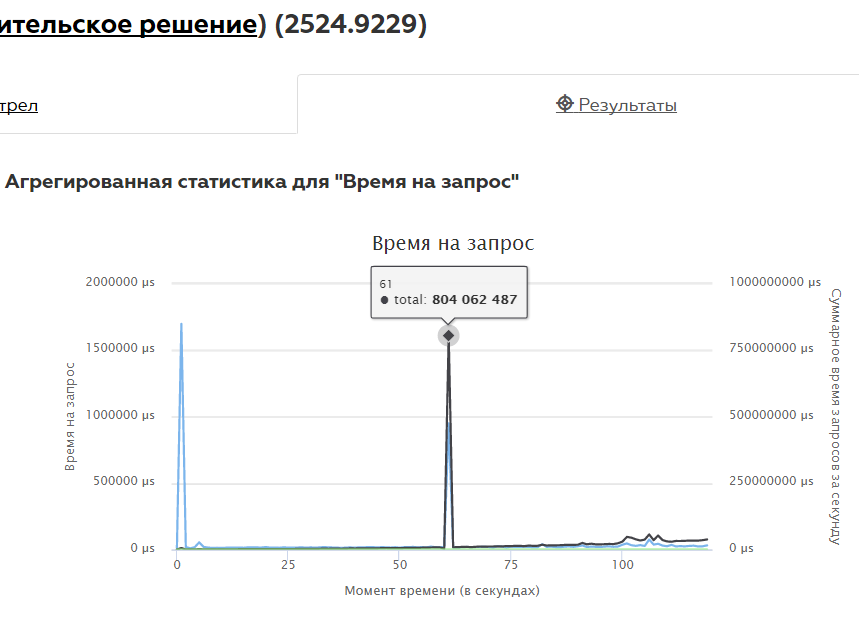
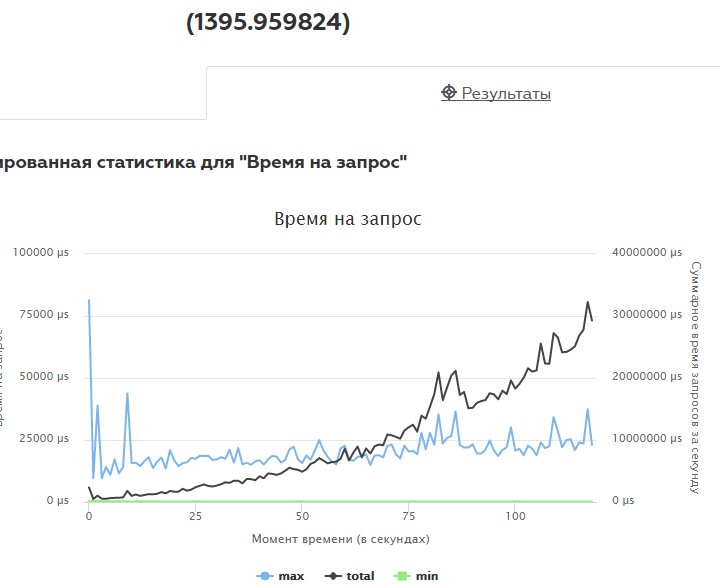
improved

diff --git a/Services/FileDbLoader.cs b/Services/FileDbLoader.cs
@@ -16,17 +16,40 @@ namespace shared.Services
         public List<Visit> visits = null;
     }
 
+    public class TaskFilesData
+    {
+        public List<DataFile> files;
+        public int? currentTime;
+    }
+
     public class FileDbLoader
     {
-        public static List<DataFile> Load(string zipFn)
+        public static TaskFilesData Load(string zipFn)
         {
             using (ZipArchive zip = ZipFile.OpenRead(zipFn))
             {
-                return zip.Entries
-                    .Where(file => file.Name.StartsWith("users") || file.Name.StartsWith("locations") || file.Name.StartsWith("visits"))
-                    .Select(file => JsonSerializers.DeserializeUtf8Stream<DataFile>(file.Open()))
-                    .ToList();
+                return new TaskFilesData {
+                    files = zip.Entries
+                        .Where(file => file.Name.StartsWith("users") || file.Name.StartsWith("locations") || file.Name.StartsWith("visits"))
+                        .Select(file => JsonSerializers.DeserializeUtf8Stream<DataFile>(file.Open()))
+                        .ToList(),
+                    currentTime = GetTimestampFrom(zip.Entries.Where(file => file.Name == "options.txt").SingleOrDefault())
+                    };
             }
         }
+
+        private static int? GetTimestampFrom(ZipArchiveEntry file)
+        {
+            if (file == null) return null;
+            using (var rdr = new StreamReader(file.Open(), Encoding.UTF8))
+            {
+                Console.WriteLine("zip/options found");
+                return rdr.ReadLine().ParseInt();
+            }
+        }
+
+
+
+
     }
 }

diff --git a/Controllers/LocationsController.cs b/Controllers/LocationsController.cs
@@ -11,12 +11,10 @@ using websrv1.Models;
 namespace websrv1.Controllers
 {
     [Route("[controller]")]
-    public class LocationsController : Controller
+    public class LocationsController : ControllerBase
     {
-        IDatabase db;
-        public LocationsController(IDatabase db)
+        public LocationsController(IDatabase db):base(db)
         {
-            this.db = db;
         }
 
         [HttpGet("{id:int}")]
@@ -24,10 +22,6 @@ namespace websrv1.Controllers
         {
             return (object)db.find<Location>(id) ?? NotFound();
         }
-
-
-
-        static    int currentTime = DateTime.Now.ToUnixTimestamp();
 
         [HttpGet("{id:int}/avg")]
         public object GetAvg(uint id,[FromQuery]SearchRequest q)
@@ -89,13 +83,13 @@ namespace websrv1.Controllers
             if (obj == null) return NotFound();
             //if (!ModelState.IsValid) return BadRequest();
             obj.updateFrom(json);
-            return "{}";//empty object
+            return emptyJSONObj;
         }
         [HttpPost("new")]
         public object Insert([FromBody]Location loc)
         {
             if (!loc.Valid) return BadRequest();
-            if (db.insert(loc)) return "{}";
+            if (db.insert(loc)) return emptyJSONObj;
             else return BadRequest();
         }
 

diff --git a/Controllers/UsersController.cs b/Controllers/UsersController.cs
@@ -10,12 +10,10 @@ using websrv1.Models;
 namespace websrv1.Controllers
 {
     [Route("[controller]")]
-    public class UsersController : Controller
+    public class UsersController : ControllerBase
     {
-        IDatabase db;
-        public UsersController(IDatabase db)
+        public UsersController(IDatabase db) : base(db)
         {
-            this.db = db;
         }
 
         [HttpGet("{id:int}")]
@@ -23,9 +21,6 @@ namespace websrv1.Controllers
         {
             return (object)db.find<User>(id) ?? NotFound();
         }
-
-
-        static   int currentTime = DateTime.Now.ToUnixTimestamp();
 
         [HttpGet("{id:int}/visits")]
         public object GetVisits(uint id, [FromQuery]SearchRequest q)
@@ -64,14 +59,14 @@ namespace websrv1.Controllers
             if (obj == null) return NotFound();
             //if (!ModelState.IsValid) return BadRequest();
             obj.updateFrom(json);
-            return "{}";//empty object
+            return emptyJSONObj;
         }
 
         [HttpPost("new")]
         public object Insert([FromBody]User user)
         {
             if (!user.Valid) return BadRequest();
-            if (db.insert(user)) return "{}";
+            if (db.insert(user)) return emptyJSONObj;
             else return BadRequest();
         }
 

diff --git a/Services/Database.cs b/Services/Database.cs
@@ -16,15 +16,18 @@ namespace shared.Services
         Dataset<Location> Locations;
         Dataset<Visit> Visits;
 
-        public InmemoryDatabase(List<DataFile> filesContents)
+        public int? CurrentTime { get; set; }
+
+        public InmemoryDatabase(TaskFilesData allData)
         {
             try
             {
                 long started = DateTime.Now.Ticks;
 
-                Users= new Dataset<User>(filesContents.Where(f => f.users != null).Select(f => f.users));
-                Locations= new Dataset<Location>(filesContents.Where(f => f.locations != null).Select(f => f.locations));
-                Visits= new Dataset<Visit>(filesContents.Where(f => f.visits != null).Select(f => f.visits));
+                CurrentTime = allData.currentTime;
+                Users = new Dataset<User>(allData.files.Where(f => f.users != null).Select(f => f.users));
+                Locations= new Dataset<Location>(allData.files.Where(f => f.locations != null).Select(f => f.locations));
+                Visits= new Dataset<Visit>(allData.files.Where(f => f.visits != null).Select(f => f.visits));
 
                 Console.WriteLine($"DB loaded in {(DateTime.Now.Ticks - started) / 10000} ms");
 

diff --git a/Startup.cs b/Startup.cs
@@ -26,12 +26,25 @@ namespace KestrelDemo
             Configuration = builder.Build();
 
 
-            string file = Configuration["server:dbdatafile"];
-            logger.LogInformation($"datafile: {file}");
+            string fileName = Configuration["server:dbdatafile"];
+            logger.LogInformation($"datafile: {fileName}");
 
             long started = DateTime.Now.Ticks;
-            var data = FileDbLoader.Load(file);
+            var data = FileDbLoader.Load(fileName);
             Console.WriteLine($"data loaded in {(DateTime.Now.Ticks - started) / 10000} ms");
+
+            if (data.currentTime == null)
+            {
+                try
+                {
+                    using (var file = File.OpenText(fileName.Replace("/data.zip", "/options.txt")))
+                        data.currentTime = file.ReadLine().ParseInt();
+                }
+                catch
+                {
+                    Console.WriteLine("no timestamp found neither in data.zip nor out of zip");
+                }
+            }
 
             var db = new InmemoryDatabase(data);
 

diff --git a/Controllers/VisitsController.cs b/Controllers/VisitsController.cs
@@ -9,12 +9,10 @@ using System.Threading.Tasks;
 namespace websrv1.Controllers
 {
     [Route("[controller]")]
-    public class VisitsController : Controller
+    public class VisitsController : ControllerBase
     {
-        IDatabase db;
-        public VisitsController(IDatabase db)
+        public VisitsController(IDatabase db):base(db)
         {
-            this.db = db;
         }
 
         [HttpGet("{id:int}")]
@@ -50,13 +48,13 @@ namespace websrv1.Controllers
                 newLocation,
                 newUser
                 );
-            return "{}";//empty object
+            return emptyJSONObj;
         }
         [HttpPost("new")]
         public object Insert([FromBody]Visit visit)
         {
             if (!visit.Valid) return BadRequest();
-            if (db.insert(visit)) return "{}";
+            if (db.insert(visit)) return emptyJSONObj;
             else return BadRequest();
         }
 

diff --git a/LightweightRouter.cs b/LightweightRouter.cs
@@ -27,13 +27,14 @@ namespace websrv1
         private Resp toJson(object val)
         {
             if (val == null) return new Resp { code = 404 };
-            else if (val is string) return new Resp { bodyStr = (string)val };
-            else if (val is HttpError) return new Resp { code = (val as HttpError).code };
             else if (val is IEntity)
             {
                 byte[] json = (val as IEntity).jsonCached;
                 if (json != null) return new Resp { body = json };
             }
+            else if (val is string) return new Resp { bodyStr = (string)val };
+            else if (val is HttpError) return new Resp { code = (val as HttpError).code };
+            else if (val is byte[]) return new Resp { body = (byte[])val };
             return new Resp { bodyStr = JsonSerializers.SerializeUnknown(val) };
         }
 

diff --git a/Controllers/Controller.cs b/Controllers/Controller.cs
@@ -1,12 +1,24 @@
 using shared;
 using shared.Entities;
 using shared.Services;
+using System;
+using System.Text;
 
 namespace websrv1.Controllers
 {
     //replacement
-    public class Controller
+    public class ControllerBase
     {
+        protected readonly IDatabase db;
+        protected readonly int currentTime;
+
+        public ControllerBase(IDatabase db)
+        {
+            this.db = db;
+            currentTime = db.CurrentTime??DateTime.Now.ToUnixTimestamp();
+        }
+
+
         public object NotFound()
         {
             return new HttpError(404);
@@ -27,5 +39,7 @@ namespace websrv1.Controllers
             return JsonSerializers.SerializeUnknown(o);
             */
         }
+
+        protected static readonly byte[] emptyJSONObj = Encoding.ASCII.GetBytes("{}");
     }
 }

diff --git a/Program.cs b/Program.cs
@@ -15,7 +15,7 @@ namespace websrv1
         {
             try
             {
-                Console.WriteLine($"{DateTime.Now.ToString("hh:mm:ss")} START v2017-08-30 18:00 vKest BigData");
+                Console.WriteLine($"{DateTime.Now.ToString("hh:mm:ss")} START v2017-09-01 13:00 vKest BigData");
 
                 var host = WebHost.CreateDefaultBuilder(args)
 

diff --git a/Services/IDatabase.cs b/Services/IDatabase.cs
@@ -6,5 +6,6 @@ namespace shared.Services
     {
         bool insert<T>(T value) where T : class,IEntity;
         T find<T>(uint id) where T : class, IEntity;
+        int? CurrentTime { get; }
     }
 }

diff --git a/README.md b/README.md
@@ -1,3 +1,5 @@
-# "afterparty" branch is out of Ratings (benchmarking purposes)
-See rated solution in master branch 
+## "afterparty" branch is out of Ratings (benchmarking purposes)
+###See rated solution in master branch 
 
+Best result so far:
+![result](BESTRESULT.png "Result")
